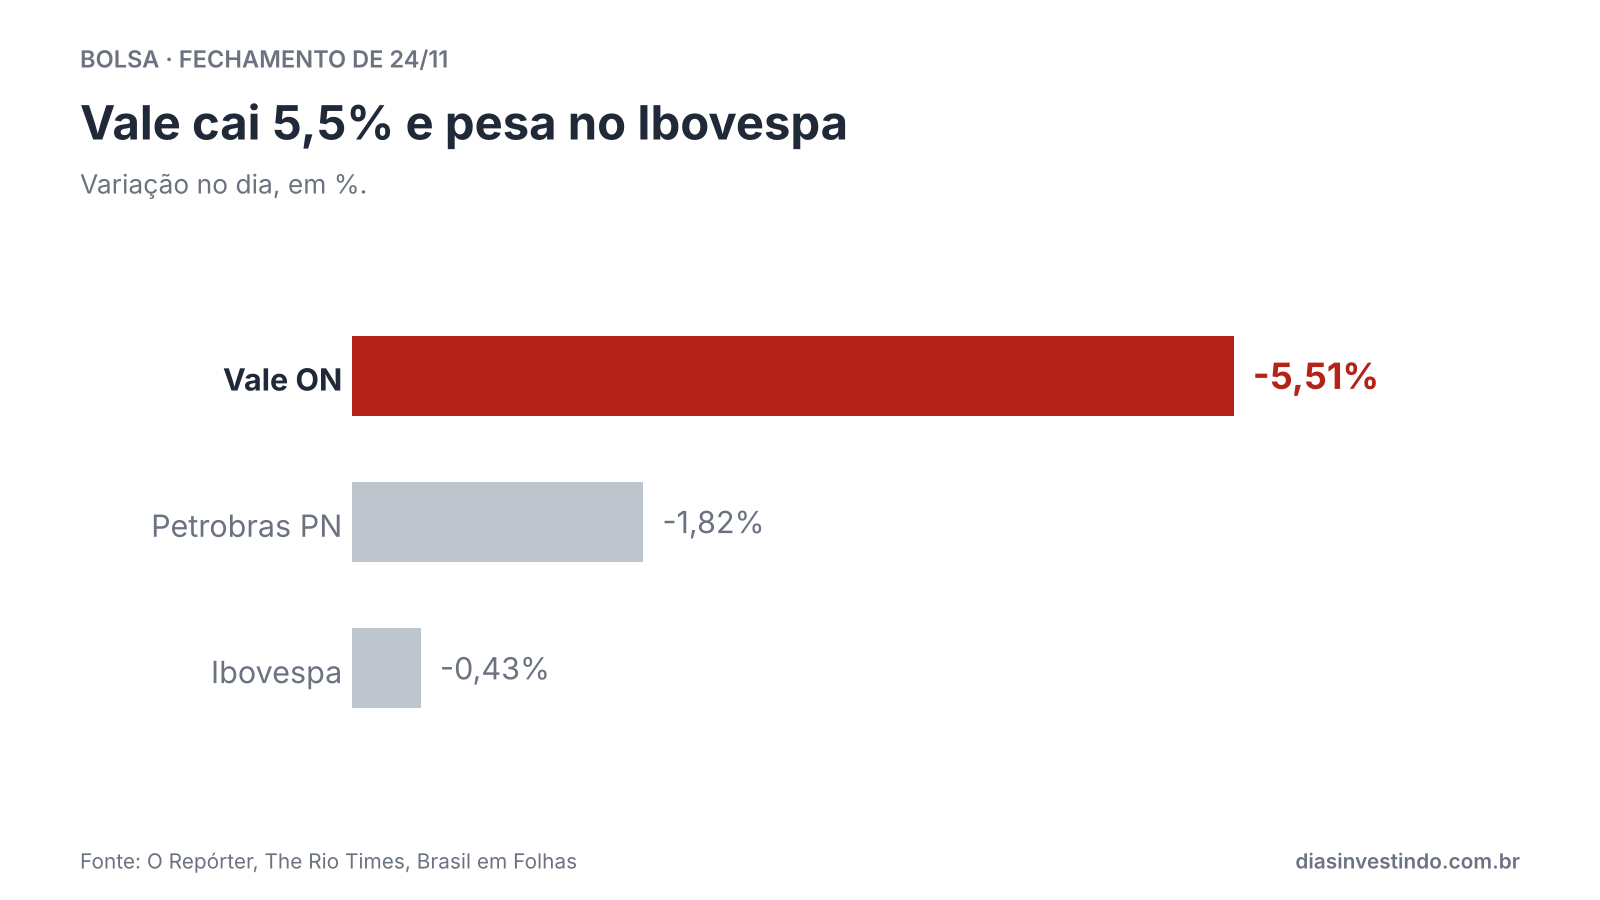
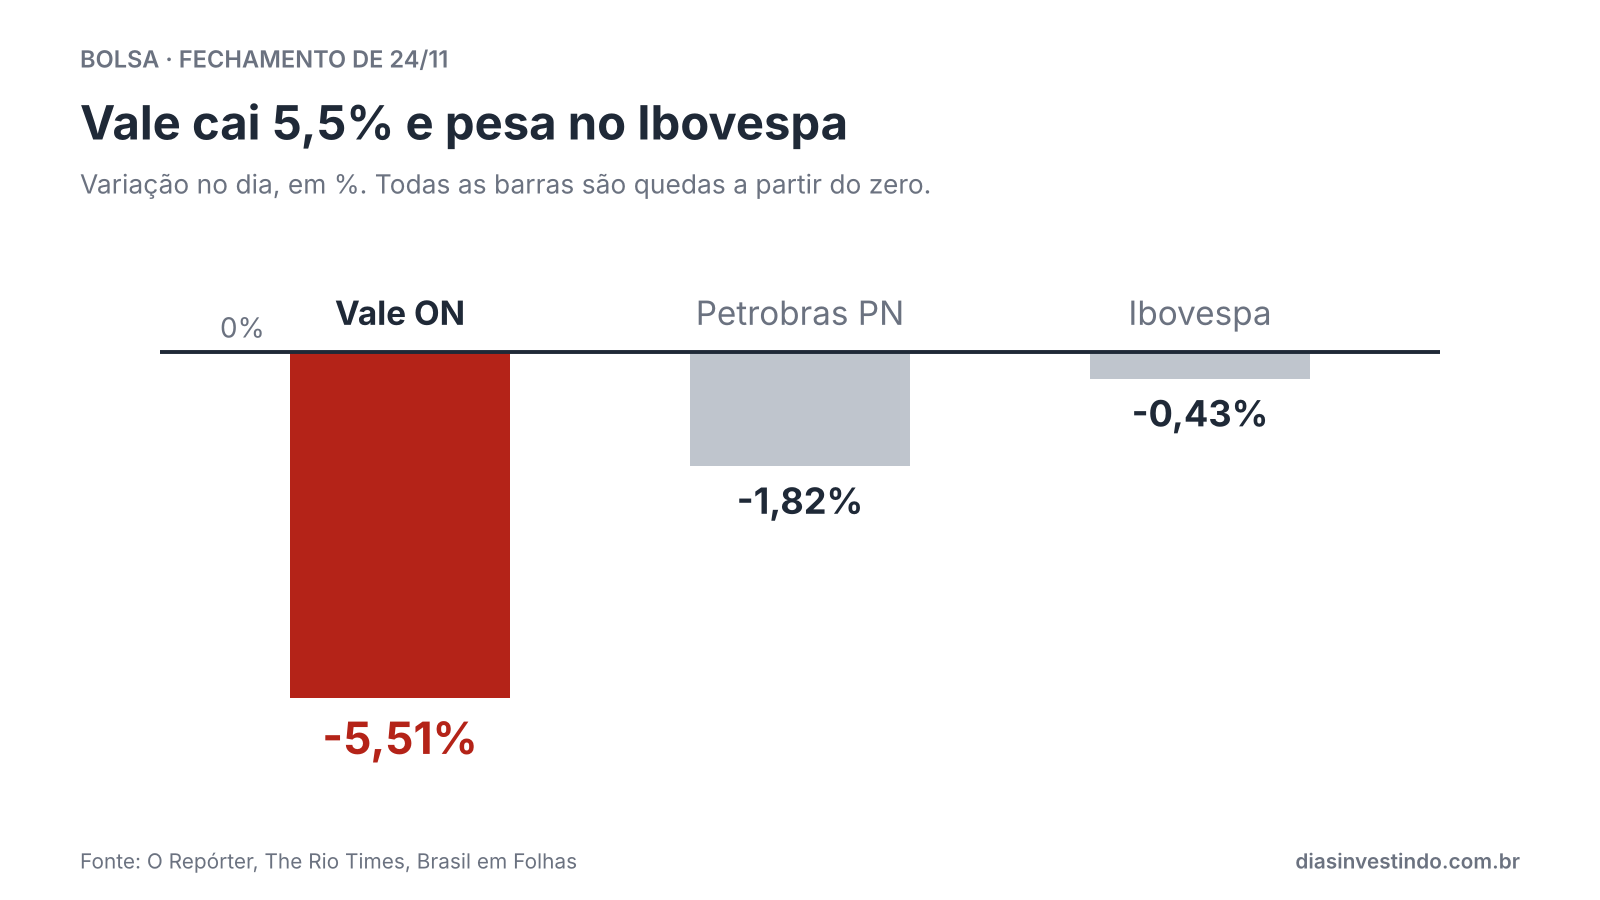
Gráfico do Ibovespa de 25/11 em colunas abaixo do zero

Changed region(s): [[0.0938, 0.3111, 0.9062, 0.84], [0.2188, 0.1867, 0.5938, 0.2178]]

diff --git a/noticias/2026-11-24-vale-cai-5-5-e-leva-o-ibovespa-a-recuar-0-43-aos-164-090-pontos-dolar/index.html b/noticias/2026-11-24-vale-cai-5-5-e-leva-o-ibovespa-a-recuar-0-43-aos-164-090-pontos-dolar/index.html
@@ -65,7 +65,7 @@
   <h1>Vale cai 5,5% e leva o Ibovespa a recuar 0,43%, aos 164.090 pontos; dólar cai a R$ 5,91</h1>
   <p class="dek">A bolsa devolveu a alta da manhã com a pressão da mineradora e da Petrobras, enquanto o câmbio recuou no dia da sanção do ajuste fiscal.</p>
   <p class="meta">Por Dias Investindo · publicado em 25/11/2026</p>
-  <figure class="grafico"><img src="/assets/img/noticias/2026-11-25-3.png" alt="Barras com as variações de 24/11: Vale ON caiu 5,51%, Petrobras PN 1,82% e o Ibovespa 0,43%; a queda da Vale, em destaque, foi a maior pressão sobre o índice." width="1600" height="900" style="display:block;width:100%;height:auto" decoding="async"><figcaption>Fonte: O Repórter, The Rio Times, Brasil em Folhas, fechamento de 24/11/2026</figcaption></figure>
+  <figure class="grafico"><img src="/assets/img/noticias/2026-11-25-3.png" alt="Colunas abaixo da linha do zero com as quedas de 24/11: Vale ON -5,51%, Petrobras PN -1,82% e Ibovespa -0,43%; a queda da Vale, em destaque, foi a maior pressão sobre o índice." width="1600" height="900" style="display:block;width:100%;height:auto" decoding="async"><figcaption>Fonte: O Repórter, The Rio Times, Brasil em Folhas, fechamento de 24/11/2026</figcaption></figure>
   <div class="corpo">
 <p>O Ibovespa fechou a terça-feira (24) em queda de 0,43%, aos 164.089,81 pontos, depois de ter chegado a 167.579,78 pontos na máxima da manhã. A maior pressão veio da Vale, cuja ação ordinária caiu 5,51%, a R$ 55,19, e da Petrobras, com recuo de 1,82% da ação preferencial, a R$ 40,55. No câmbio, o dólar comercial caiu 0,26% e fechou a R$ 5,91, depois de ter fechado a R$ 5,93 na segunda-feira.</p>
 <p>A queda da Vale ocorreu mesmo com o minério de ferro em alta na China, e outras mineradoras globais também recuaram. A Petrobras reagiu ao plano de negócios 2027-2031, com investimento previsto de US$ 122 bilhões, divulgado na véspera. O dólar perdeu força com a sanção do ajuste fiscal, enquanto em Nova York o Nasdaq caiu 1,48% e o S&amp;P 500 recuou 0,50%, em mais um dia de venda de ações de tecnologia.</p>

diff --git a/index.html b/index.html
@@ -602,7 +602,7 @@
       ],
       "grafico": {
         "src": "/assets/img/noticias/2026-11-25-3.png",
-        "alt": "Barras com as variações de 24/11: Vale ON caiu 5,51%, Petrobras PN 1,82% e o Ibovespa 0,43%; a queda da Vale, em destaque, foi a maior pressão sobre o índice.",
+        "alt": "Colunas abaixo da linha do zero com as quedas de 24/11: Vale ON -5,51%, Petrobras PN -1,82% e Ibovespa -0,43%; a queda da Vale, em destaque, foi a maior pressão sobre o índice.",
         "fonte": "Fonte: O Repórter, The Rio Times, Brasil em Folhas, fechamento de 24/11/2026"
       },
       "slug": "2026-11-24-vale-cai-5-5-e-leva-o-ibovespa-a-recuar-0-43-aos-164-090-pontos-dolar"

diff --git a/graficos/2026-11-25.py b/graficos/2026-11-25.py
@@ -60,25 +60,29 @@ ax.set_yticks([]); ax.tick_params(colors=APAGADO, labelsize=9)
 ax.set_xticks(d); ax.xaxis.set_major_formatter(mdates.DateFormatter("%d/nov"))
 src["anthropic"] = salvar(fig, "2026-11-25-2")
 
-# 3) MERCADO — barras ordenadas (quem pressionou)
+# 3) MERCADO — colunas abaixo do zero (quedas do dia)
 fig = moldura("Bolsa · fechamento de 24/11",
               "Vale cai 5,5% e pesa no Ibovespa",
-              "Variação no dia, em %.",
+              "Variação no dia, em %. Todas as barras são quedas a partir do zero.",
               "O Repórter, The Rio Times, Brasil em Folhas")
-ax = fig.add_axes([0.22, 0.16, 0.7, 0.52])
+ax = fig.add_axes([0.1, 0.12, 0.8, 0.58])
 limpar(ax)
 nomes = ["Vale ON", "Petrobras PN", "Ibovespa"]
 vals = [-5.51, -1.82, -0.43]
 cores = [VERMELHO, CINZA, CINZA]
-ys = [2, 1, 0]
-ax.barh(ys, [abs(x) for x in vals], height=0.55, color=cores)
-ax.set_xlim(0, 7); ax.set_ylim(-0.6, 2.6)
-for y, x, c in zip(ys, vals, cores):
-    ax.text(abs(x) + 0.12, y, br(x, 2, sufixo="%"), va="center", fontsize=13 if c == VERMELHO else 11,
-            color=VERMELHO if c == VERMELHO else APAGADO, weight="bold" if c == VERMELHO else "normal")
-ax.set_yticks(ys); ax.set_yticklabels(nomes, fontsize=11)
-ax.get_yticklabels()[0].set_weight("bold"); ax.get_yticklabels()[0].set_color(TINTA)
-ax.set_xticks([])
+xs = [0, 1, 2]
+ax.bar(xs, vals, width=0.55, color=cores)
+ax.axhline(0, color=TINTA, lw=1.4)
+ax.text(-0.45, 0.12, "0%", fontsize=10, color=APAGADO, va="bottom")
+ax.set_xlim(-0.6, 2.6); ax.set_ylim(-7.0, 1.3)
+for x, v, c, n in zip(xs, vals, cores, nomes):
+    forte = c == VERMELHO
+    ax.text(x, v - 0.2, br(v, 2, sufixo="%"), ha="center", va="top",
+            fontsize=16 if forte else 13, weight="bold",
+            color=VERMELHO if forte else TINTA)
+    ax.text(x, 0.3, n, ha="center", va="bottom", fontsize=12,
+            color=TINTA if forte else APAGADO, weight="bold" if forte else "normal")
+ax.set_xticks([]); ax.set_yticks([])
 src["mercado"] = salvar(fig, "2026-11-25-3")
 
 # 4) BRASKEM — concentração (o que vira ação)

diff --git a/verificacao/2026-11-25.md b/verificacao/2026-11-25.md
@@ -36,7 +36,7 @@ Cada número publicado no site e onde ele foi confirmado. Régua com o pregão d
 
 - `assets/img/noticias/2026-11-25-1.png` (comparação de duas barras): 2,5% e 2%; diferença 0,5 p.p. (conta: 2,5 - 2).
 - `assets/img/noticias/2026-11-25-2.png` (linha até a barreira): 97,17; 88,91; 87,64; 81,9; linha do IPO em 83. Só pregões reais (21 e 22/11 fim de semana).
-- `assets/img/noticias/2026-11-25-3.png` (barras ordenadas): -5,51%; -1,82%; -0,43%. Título "5,5%" = 5,51 arredondado.
+- `assets/img/noticias/2026-11-25-3.png` (colunas abaixo do zero; refeito a pedido do Moisés): -5,51%; -1,82%; -0,43%. Título "5,5%" = 5,51 arredondado.
 - `assets/img/noticias/2026-11-25-4.png` (concentração): cerca de 11; 3,6; 2,25 (US$ bilhões); subtítulo -14,09% e R$ 2,50. Arte (rosca): 1,3 com garantia e 0,95 sem garantia (conta: 2,25 - 1,3).
 
 ## URLs
